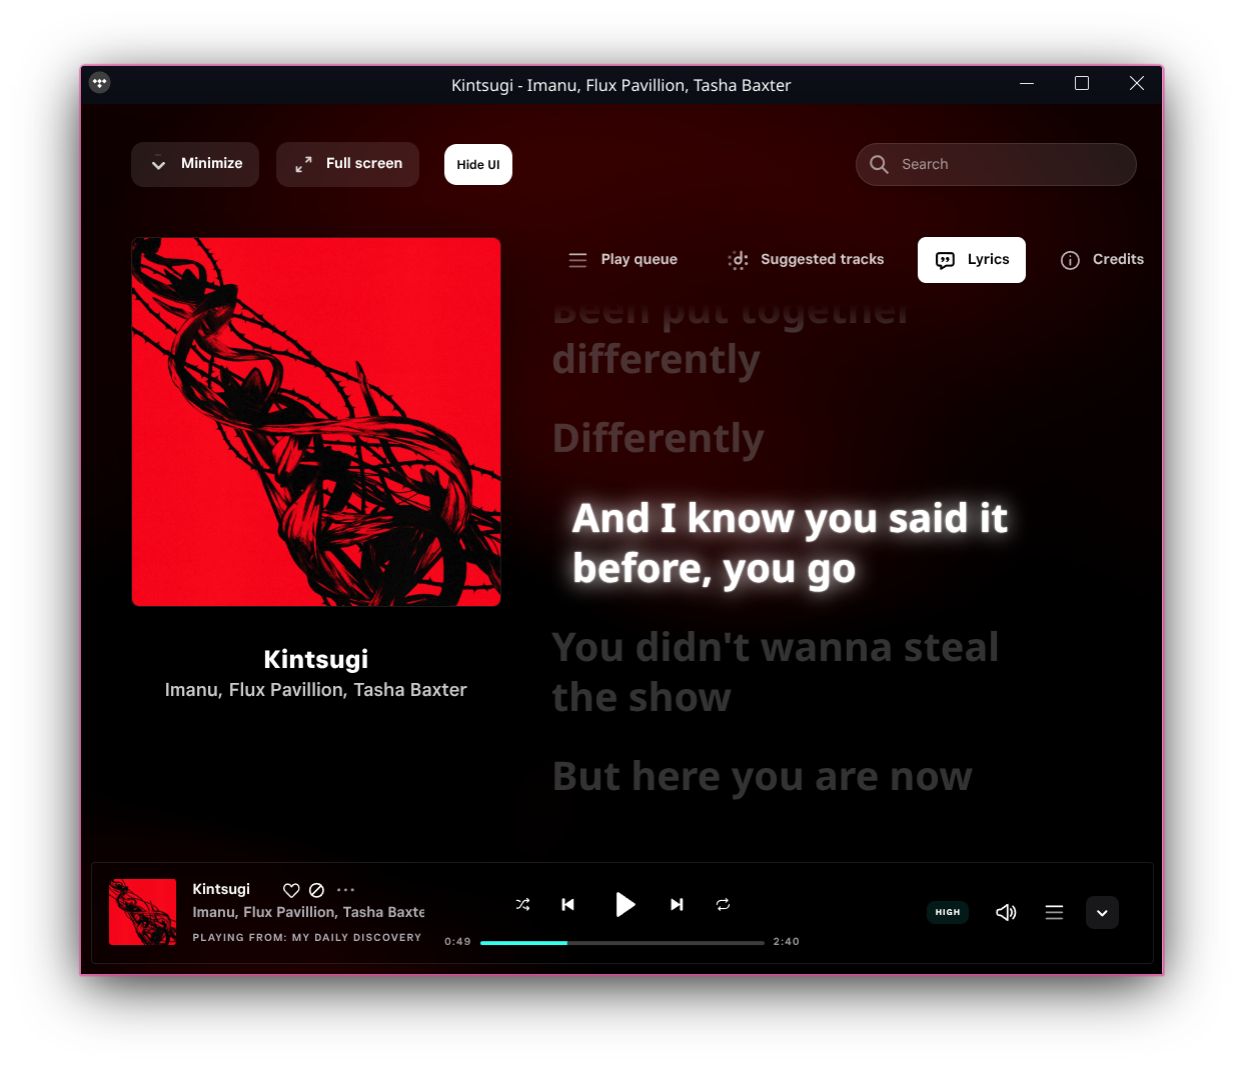
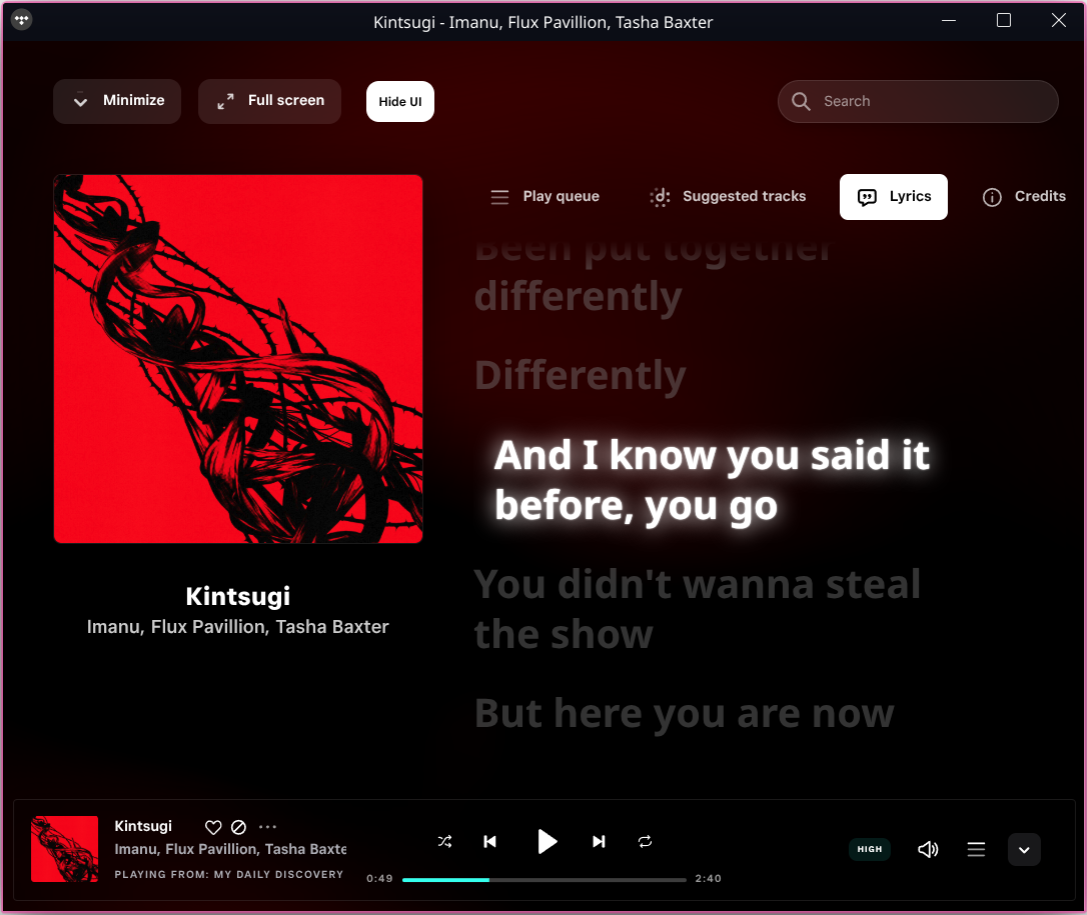
ComareImage Test

diff --git a/src/app/tidalluna-plugins/page.tsx b/src/app/tidalluna-plugins/page.tsx
@@ -14,6 +14,7 @@ import {
   Button,
   RevealFx,
   Icon,
+  CompareImage,
 } from "@once-ui-system/core";
 import Link from "next/link";
 
@@ -60,21 +61,48 @@ export default function TidalPluginsPage() {
           />
         </Row>
       </RevealFx>
-      <Column maxWidth="s" horizontal="center" gap="m" align="center">
-        <RevealFx horizontal="center">
+      <Column maxWidth="l" horizontal="center" gap="m" align="center">
+        {/* <RevealFx horizontal="center">
           <Row horizontal="around">
             <Tag>
               <Heading variant="display-strong-l">Page Incomplete</Heading>
             </Tag>
           </Row>
-        </RevealFx>
-
+        </RevealFx> */}
         <RevealFx horizontal="center" delay={0.2}>
           <Row>
             <Heading variant="display-strong-l">TidalLuna Plugins</Heading>
           </Row>
         </RevealFx>
 
+        <Row width="m" gap="64" vertical="center">
+          <Column fillWidth flex={5} gap="24" align="start">
+            <Heading variant="display-strong-m">Transform Tidal's UI</Heading>
+            <Column gap="12">
+              <Text>• Dynamic Ambient Cover Art</Text>
+              <Text>• Radiant Animated Lyrics</Text>
+              <Text>• Hide UI Elements for a Better Fullscreen Experience</Text>
+              <Text>• Stylised Floating Playerbar</Text>
+            </Column>
+          </Column>
+
+          <Column fillWidth flex={5}>
+            <CompareImage
+              radius="xl"
+              //border="neutral-alpha-weak"
+              overflow="hidden"
+              aspectRatio="1087 / 915"
+              leftContent={{
+                src: "/images/products/tidaluna/TidalBeforeLyrics.png",
+                alt: "Tidal Before",
+              }}
+              rightContent={{
+                src: "/images/products/tidaluna/TidalAfterLyrics.png",
+                alt: "Tidal After",
+              }}
+            />
+          </Column>
+        </Row>
         <RevealFx horizontal="center" delay={0.4}>
           <Row>
             <Text onBackground="neutral-weak" wrap="balance">
